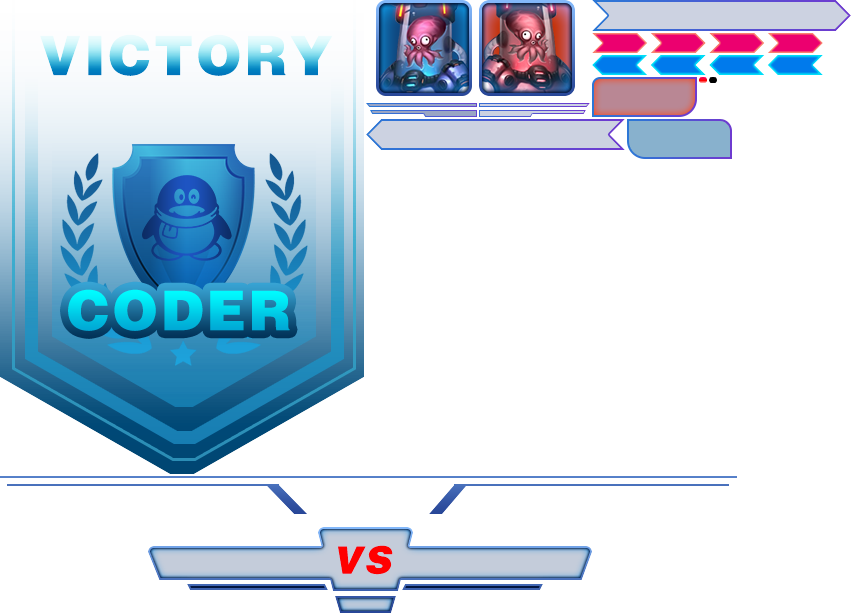
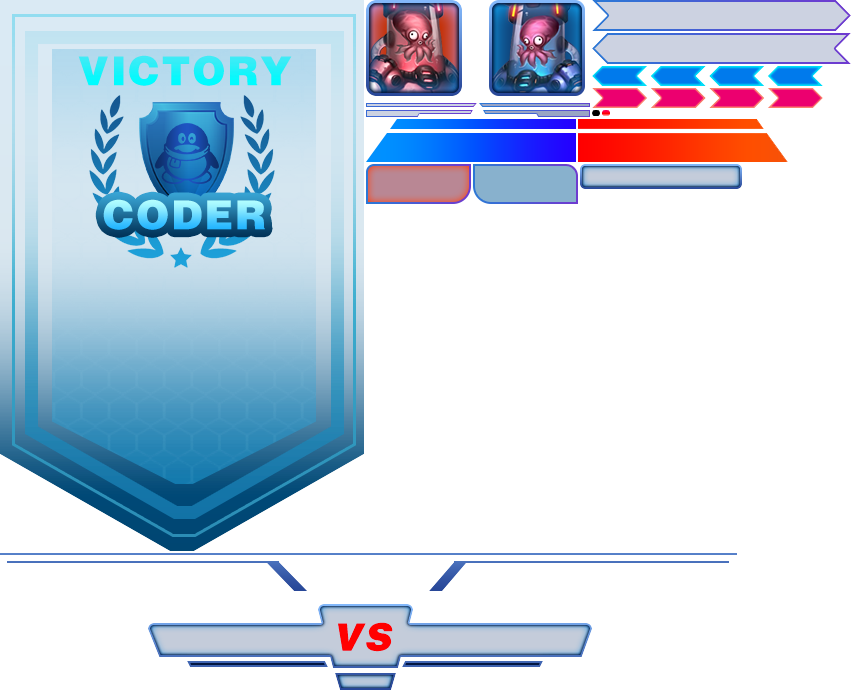
更新地图 优化UI 增加播放速度控制 优化结算界面

diff --git a/src/com/game/module/menu/Menu.ts b/src/com/game/module/menu/Menu.ts
@@ -6,8 +6,6 @@ class Menu extends egret.Sprite {
 
     private _resultView: ResultUI;
 
-    private _btnMode: eui.Button;
-
     private MOUSE_MODE: string = "鼠标操作";
 
     private AUTO_MODE: string = "自动镜头";
@@ -21,37 +19,30 @@ class Menu extends egret.Sprite {
         this._view = new MenuUI();
         this.addChild(this._view);
 
-        this._btnMode = new eui.Button();
-        this._btnMode.skinName = "skins.ButtonSkin";
-        this._btnMode.label = this.AUTO_MODE;
-        this._btnMode.height = 40;
-        this._btnMode.x = 5;
-        this._btnMode.y = 5;
-        this.addChild(this._btnMode);
-
-        this._boxSpeed = new eui.box();
-        this._btnMode.skinName = "skins.ButtonSkin";
-        this._btnMode.label = this.AUTO_MODE;
-        this._btnMode.height = 40;
-        this._btnMode.x = 5;
-        this._btnMode.y = 5;
-        this.addChild(this._btnMode);
+        this._view.btnCamera.label = this.AUTO_MODE;
+        this._view.btnSpeed.label = "播放速度(x" + EnumSpeed.SPEED + ")"
 
         this._view.imgBlood1.mask = this._view.rectTeamMask1;
         this._view.imgBlood2.mask = this._view.rectTeamMask2;
     }
 
     public show(): void {
-        this._btnMode.addEventListener(egret.TouchEvent.TOUCH_TAP, this.onChangeMode, this);
+        this._view.btnCamera.addEventListener(egret.TouchEvent.TOUCH_TAP, this.onChangeMode, this);
+        this._view.btnSpeed.addEventListener(egret.TouchEvent.TOUCH_TAP, this.onChangeSpeed, this);
         this.onResize();
     }
 
     public hide(): void {
     }
 
+    private onChangeSpeed(e: egret.TouchEvent): void {
+        EnumSpeed.addSpeed();
+        this._view.btnSpeed.label = "播放速度(x" + EnumSpeed.SPEED + ")"
+    }
+
     private onChangeMode(e: egret.TouchEvent): void {
         Config.isMouseMode = !Config.isMouseMode;
-        this._btnMode.label = Config.isMouseMode ? this.MOUSE_MODE : this.AUTO_MODE;
+        this._view.btnCamera.label = Config.isMouseMode ? this.MOUSE_MODE : this.AUTO_MODE;
     }
 
     public showRoundEffect(round: number): void {
@@ -62,7 +53,7 @@ class Menu extends egret.Sprite {
     }
 
     public onResize(): void {
-        this._view.x = Config.STAGE_WIDTH - this._view.width >> 1;
+        this._view.width = Config.STAGE_WIDTH;
     }
 
     public initInfo(teamName1: string, teamName2: string): void {
@@ -104,8 +95,10 @@ class Menu extends egret.Sprite {
         this._resultView.y = Config.STAGE_HEIGHT - this._resultView.height >> 1;
         this._resultView.alpha = 0;
         this._resultView.scaleX = this._resultView.scaleY = 0;
+        var list: string[] = team.getLeftAvatarList();
+        this._resultView.txtMemberName.text = list[0];
+        this._resultView.txtMemberNum.text = list[1];
         egret.Tween.get(this._resultView).to({ alpha: 1, scaleX: 1, scaleY: 1 }, 500, egret.Ease.backInOut);
-        // team.getLeftAvatarStr
     }
 
 

diff --git a/src/com/game/vo/TeamVo.ts b/src/com/game/vo/TeamVo.ts
@@ -57,6 +57,23 @@ class TeamVo {
         return str;
     }
 
+    public getLeftAvatarList(): string[] {
+        var nameStr: string = "";
+        var numStr: string = "";
+        var keys: any[] = this.teamList.keys;
+        keys.sort((n1: any, n2: any) => {
+            if (EnumAvatarType.getSortRank(n1) <= EnumAvatarType.getSortRank(n2))
+                return -1;
+            else
+                return 1;
+        })
+        for (var i: number = 0, len: number = keys.length; i < len; i++) {
+            nameStr += EnumAvatarType.getNameByType(keys[i]) + "\n";
+            numStr += this.teamList.get(keys[i]) + "\n";
+        }
+        return [nameStr, numStr];
+    }
+
     private getFullNum(num: number): string {
         if (num < 10)
             return "0" + num;

diff --git a/src/com/game/module/menu/RoundEffect.ts b/src/com/game/module/menu/RoundEffect.ts
@@ -14,6 +14,7 @@ class RoundEffect extends egret.DisplayObjectContainer {
         this._label.textColor = 0xFFFFFF;
         this._label.size = 26;
         this._label.italic = true;
+        this._label.bold=true;
         this.addChild(this._label);
 
     }
@@ -27,7 +28,7 @@ class RoundEffect extends egret.DisplayObjectContainer {
         this.x = Config.STAGE_WIDTH >> 1;
         this.y = Math.floor(Config.STAGE_HEIGHT * 0.35);
         this.scaleX = this.scaleY = 8;
-        egret.Tween.get(this).wait(200).to({ scaleX: 1, scaleY: 1, y: 28 }, 500, egret.Ease.quartInOut).call(this.hide, this);
+        egret.Tween.get(this).wait(200).to({ scaleX: 1, scaleY: 1, y: 47 }, 500, egret.Ease.quartInOut).call(this.hide, this);
     }
 
     public hide(): void {

diff --git a/src/com/game/module/scene/avatar/DragonbonesAvatar.ts b/src/com/game/module/scene/avatar/DragonbonesAvatar.ts
@@ -18,7 +18,7 @@ class DragonbonesAvatar extends egret.Sprite {
         this._father = value;
     }
 
-    public get father():BaseAvatar{
+    public get father(): BaseAvatar {
         return this._father;
     }
 
@@ -28,6 +28,11 @@ class DragonbonesAvatar extends egret.Sprite {
             this._dragonbones = this._dragonbonesFactory.buildArmatureDisplay("armatureName");
             this.addChild(this._dragonbones);
         }
+    }
+
+    public set speed(value: number) {
+        if (this._dragonbones && this._dragonbones.animation)
+            this._dragonbones.animation.timeScale = value;
     }
 
     public playAction(action: string, playBack: FunctionVo = null): void {

diff --git a/src/com/game/ui/menu/MenuUI.ts b/src/com/game/ui/menu/MenuUI.ts
@@ -1,19 +1,18 @@
 class MenuUI extends BaseUI {
-	public imgBlood1: eui.Image;
-	public imgBlood2: eui.Image;
 	public txtTeamName1: eui.Label;
 	public txtTeamLeft1: eui.Label;
 	public txtTeamLeft2: eui.Label;
 	public txtRound: eui.Label;
 	public txtTeamName2: eui.Label;
+	public imgBlood1: eui.Image;
 	public rectTeamMask1: eui.Rect;
+	public imgBlood2: eui.Image;
 	public rectTeamMask2: eui.Rect;
+	public btnCamera: eui.Button;
+	public btnSpeed: eui.Button;
 
 	public constructor() {
 		super("MenuSkin");
 	}
 
-	public get width(): number {
-		return 1032;
-	}
 }

diff --git a/src/com/game/module/scene/MapLayer.ts b/src/com/game/module/scene/MapLayer.ts
@@ -332,4 +332,14 @@ class MapLayer extends egret.DisplayObjectContainer {
             avatar.father.visible = this.isInScreen(avatar.father.col, avatar.father.row, 0);
         }
     }
+
+    public updateRoleSpeed(): void {
+        var childrenCount: number = this.avatarContainer.numChildren;
+        var index: number = 0;
+        var avatar: DragonbonesAvatar;
+        while (index < childrenCount) {
+            avatar = this.avatarContainer.getChildAt(index++) as DragonbonesAvatar;
+            avatar.speed = EnumSpeed.SPEED;
+        }
+    }
 }

diff --git a/src/com/game/enum/EnumSpeed.ts b/src/com/game/enum/EnumSpeed.ts
@@ -10,7 +10,7 @@ class EnumSpeed {
     /**死亡消失时间 */
     public static DEAD_DISAPPEAR_TIME: number = 2000;
     /**时间倍数 */
-    public static SPEED: number = 2;
+    public static SPEED: number = 1;
 
     /**
      * 每格移动时间
@@ -51,6 +51,7 @@ class EnumSpeed {
         this.SPEED *= 2
         if (this.SPEED > 8)
             this.SPEED = 1;
+        App.layer.mapLayer.updateRoleSpeed();
     }
 
 }

diff --git a/libs/exml.e.d.ts b/libs/exml.e.d.ts
@@ -50,6 +50,8 @@ declare module skins{
 	class VSliderSkin extends eui.Skin{
 	}
 }
+declare class MenuButtonSkin extends eui.Skin{
+}
 declare class MenuSkin extends eui.Skin{
 }
 declare class ResultSkin extends eui.Skin{

diff --git a/src/com/game/ui/result/ResultUI.ts b/src/com/game/ui/result/ResultUI.ts
@@ -1,5 +1,7 @@
 class ResultUI extends BaseUI {
     public txtWinName: eui.Label;
+    public txtMemberName: eui.Label;
+    public txtMemberNum: eui.Label;
 
     public constructor() {
         super("ResultSkin");

diff --git a/src/com/game/enum/EnumMap.ts b/src/com/game/enum/EnumMap.ts
@@ -11,6 +11,6 @@ class EnumMap {
 
     public static MAP_HEIGHT: number = 3750;
 
-    public static MAP_Y:number = 263;
+    public static MAP_Y:number = 265//310;
 
 }
